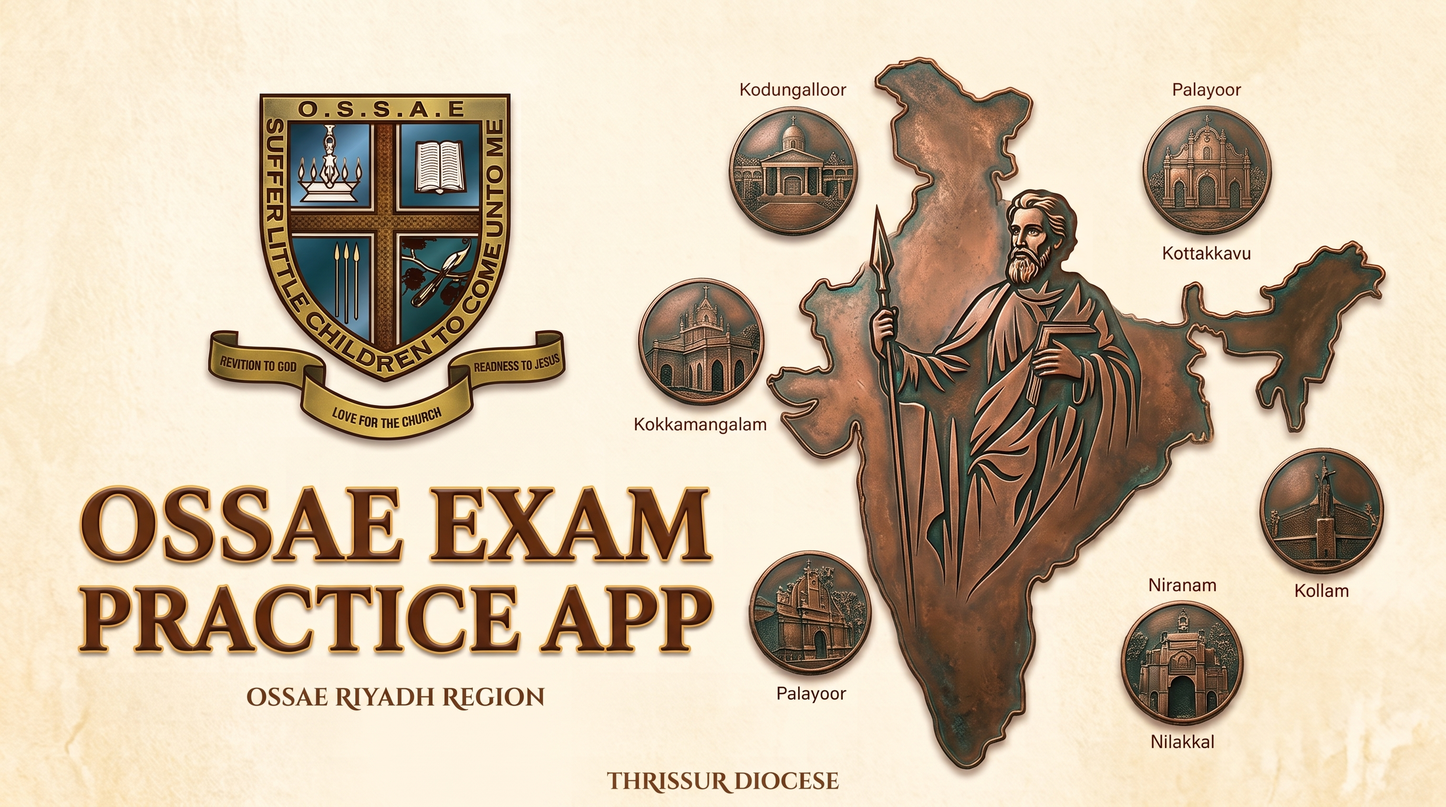
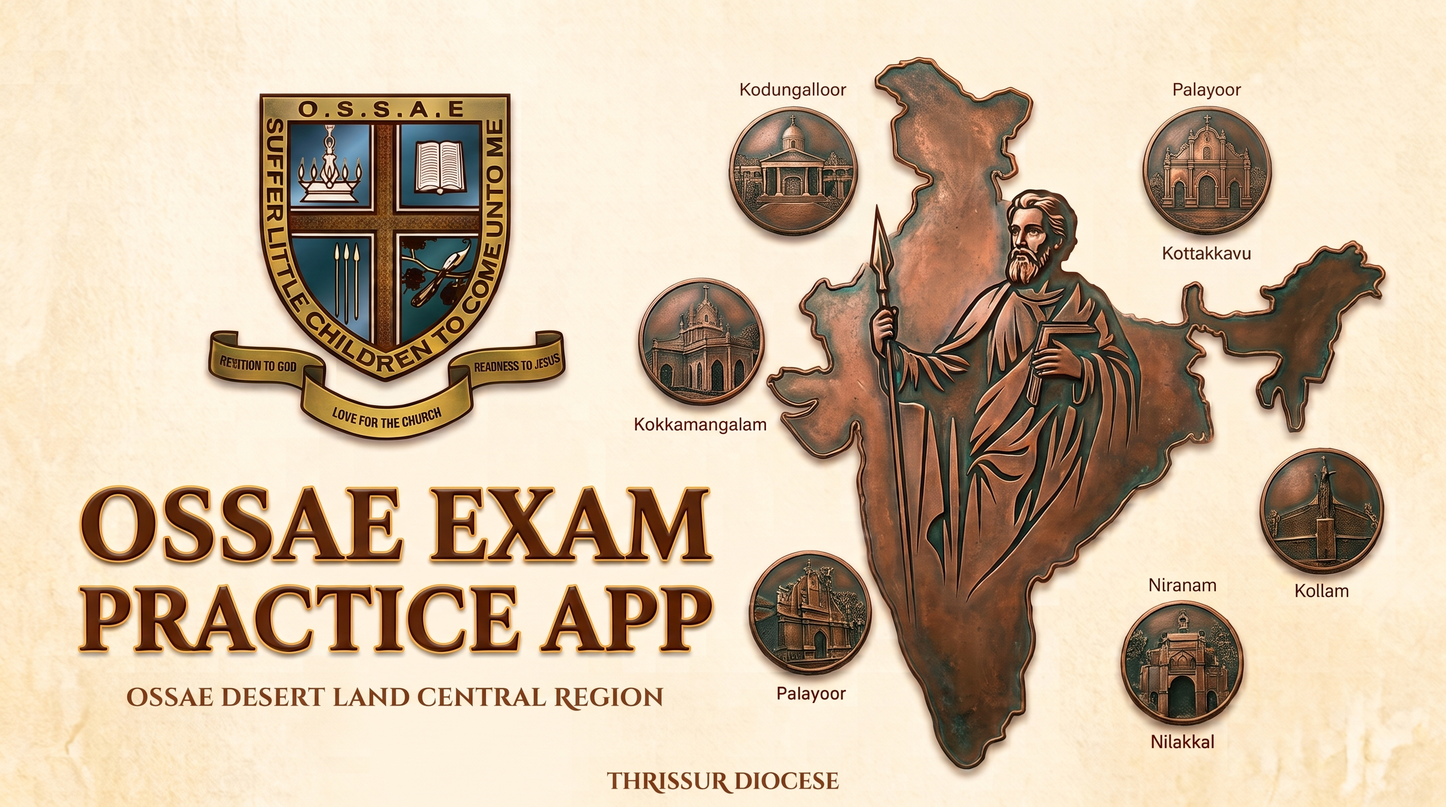
Update header image to OSSAE Desert Land Central Region artwork

diff --git a/index.html b/index.html
@@ -11,13 +11,13 @@
   <meta property="og:type" content="website">
   <meta property="og:title" content="OSSAE DESERT LAND CENTRAL REGION (THRISSUR DIOCESE)">
   <meta property="og:description" content="OSSAE DESERT LAND CENTRAL REGION (THRISSUR DIOCESE) — Sunday School Exam Portal">
-  <meta property="og:image" content="Header.jpg">
+  <meta property="og:image" content="Header.jpg?v=2">
 
   <!-- Twitter Card -->
   <meta property="twitter:card" content="summary_large_image">
   <meta property="twitter:title" content="OSSAE DESERT LAND CENTRAL REGION (THRISSUR DIOCESE)">
   <meta property="twitter:description" content="OSSAE DESERT LAND CENTRAL REGION (THRISSUR DIOCESE) — Sunday School Exam Portal">
-  <meta property="twitter:image" content="Header.jpg">
+  <meta property="twitter:image" content="Header.jpg?v=2">
 
   <link rel="icon" href="logo.png">
   <link rel="preconnect" href="https://fonts.googleapis.com">
@@ -371,7 +371,7 @@
         </div>
         <div class="hero-visual">
           <figure class="hero-frame">
-            <img src="Header.jpg" alt="OSSAE DESERT LAND CENTRAL REGION (THRISSUR DIOCESE)">
+            <img src="Header.jpg?v=2" alt="OSSAE DESERT LAND CENTRAL REGION (THRISSUR DIOCESE)">
             <figcaption><span class="dot" aria-hidden="true"></span><span data-en="Practice exams are open for all classes" data-ml="എല്ലാ ക്ലാസ്സുകൾക്കും പരിശീലന പരീക്ഷ ലഭ്യമാണ്">Practice exams are open for all classes</span></figcaption>
           </figure>
         </div>

diff --git a/class8.html b/class8.html
@@ -23,7 +23,7 @@
   </nav>
 
   <header class="hero">
-    <img src="Header.jpg" alt="OSSAE DESERT LAND CENTRAL REGION (THRISSUR DIOCESE)" class="hero-img">
+    <img src="Header.jpg?v=2" alt="OSSAE DESERT LAND CENTRAL REGION (THRISSUR DIOCESE)" class="hero-img">
     <div class="hero-body">
       <span class="class-badge" aria-hidden="true">VIII</span>
       <div>

diff --git a/class12.html b/class12.html
@@ -23,7 +23,7 @@
   </nav>
 
   <header class="hero">
-    <img src="Header.jpg" alt="OSSAE DESERT LAND CENTRAL REGION (THRISSUR DIOCESE)" class="hero-img">
+    <img src="Header.jpg?v=2" alt="OSSAE DESERT LAND CENTRAL REGION (THRISSUR DIOCESE)" class="hero-img">
     <div class="hero-body">
       <span class="class-badge" aria-hidden="true">XII</span>
       <div>

diff --git a/class7.html b/class7.html
@@ -23,7 +23,7 @@
   </nav>
 
   <header class="hero">
-    <img src="Header.jpg" alt="OSSAE DESERT LAND CENTRAL REGION (THRISSUR DIOCESE)" class="hero-img">
+    <img src="Header.jpg?v=2" alt="OSSAE DESERT LAND CENTRAL REGION (THRISSUR DIOCESE)" class="hero-img">
     <div class="hero-body">
       <span class="class-badge" aria-hidden="true">VII</span>
       <div>

diff --git a/class11.html b/class11.html
@@ -23,7 +23,7 @@
   </nav>
 
   <header class="hero">
-    <img src="Header.jpg" alt="OSSAE DESERT LAND CENTRAL REGION (THRISSUR DIOCESE)" class="hero-img">
+    <img src="Header.jpg?v=2" alt="OSSAE DESERT LAND CENTRAL REGION (THRISSUR DIOCESE)" class="hero-img">
     <div class="hero-body">
       <span class="class-badge" aria-hidden="true">XI</span>
       <div>

diff --git a/class6.html b/class6.html
@@ -23,7 +23,7 @@
   </nav>
 
   <header class="hero">
-    <img src="Header.jpg" alt="OSSAE DESERT LAND CENTRAL REGION (THRISSUR DIOCESE)" class="hero-img">
+    <img src="Header.jpg?v=2" alt="OSSAE DESERT LAND CENTRAL REGION (THRISSUR DIOCESE)" class="hero-img">
     <div class="hero-body">
       <span class="class-badge" aria-hidden="true">VI</span>
       <div>

diff --git a/class9.html b/class9.html
@@ -23,7 +23,7 @@
   </nav>
 
   <header class="hero">
-    <img src="Header.jpg" alt="OSSAE DESERT LAND CENTRAL REGION (THRISSUR DIOCESE)" class="hero-img">
+    <img src="Header.jpg?v=2" alt="OSSAE DESERT LAND CENTRAL REGION (THRISSUR DIOCESE)" class="hero-img">
     <div class="hero-body">
       <span class="class-badge" aria-hidden="true">IX</span>
       <div>

diff --git a/class10.html b/class10.html
@@ -23,7 +23,7 @@
   </nav>
 
   <header class="hero">
-    <img src="Header.jpg" alt="OSSAE DESERT LAND CENTRAL REGION (THRISSUR DIOCESE)" class="hero-img">
+    <img src="Header.jpg?v=2" alt="OSSAE DESERT LAND CENTRAL REGION (THRISSUR DIOCESE)" class="hero-img">
     <div class="hero-body">
       <span class="class-badge" aria-hidden="true">X</span>
       <div>

diff --git a/class5.html b/class5.html
@@ -24,7 +24,7 @@
   </nav>
 
   <header class="hero">
-    <img src="Header.jpg" alt="OSSAE DESERT LAND CENTRAL REGION (THRISSUR DIOCESE)" class="hero-img">
+    <img src="Header.jpg?v=2" alt="OSSAE DESERT LAND CENTRAL REGION (THRISSUR DIOCESE)" class="hero-img">
     <div class="hero-body">
       <span class="class-badge" aria-hidden="true">V</span>
       <div>
